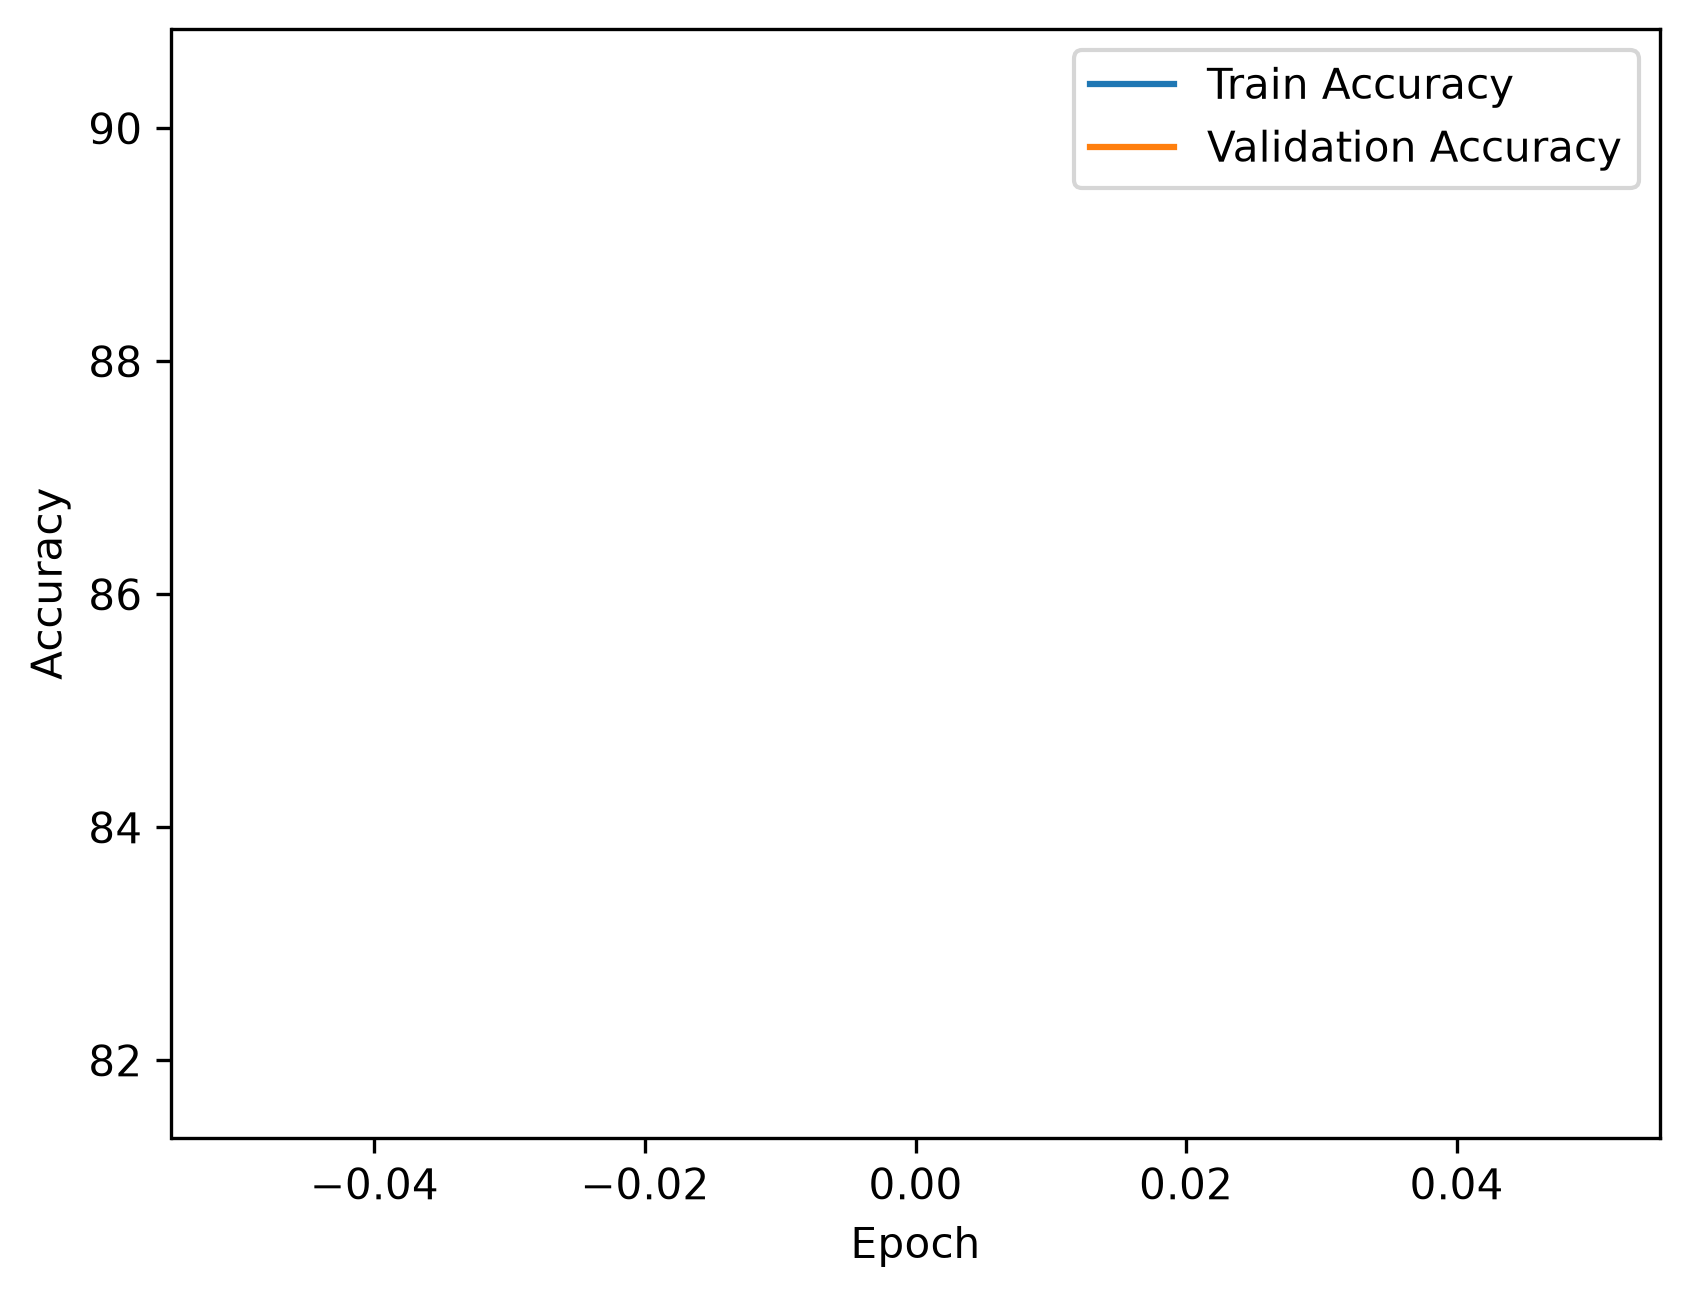
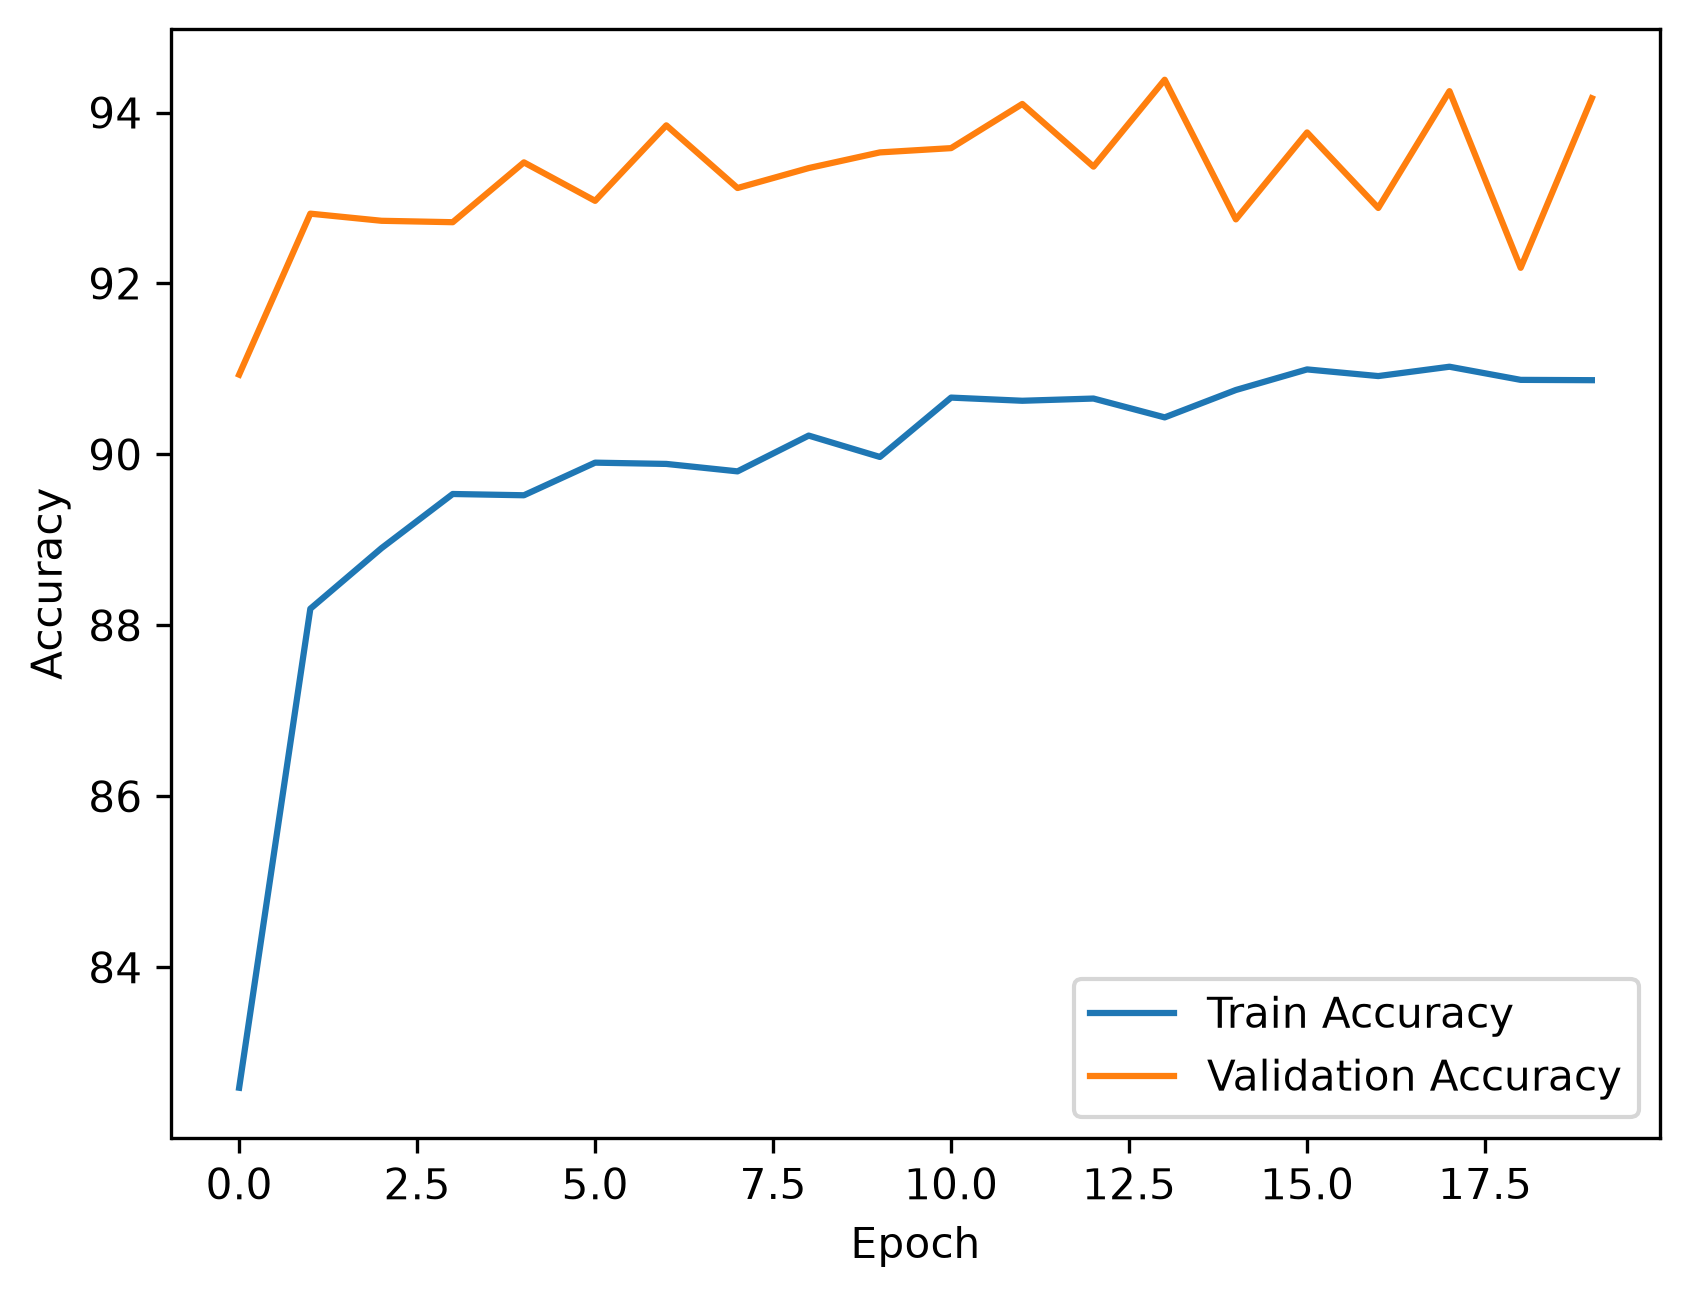
plot gen

diff --git a/deep_models/mnist_project/config.py b/deep_models/mnist_project/config.py
@@ -22,7 +22,7 @@ class ModelConfig:
 
 @dataclass
 class TrainConfig:
-    epoch_count = 10
+    epoch_count = 20
     epoch_checkpoint = 1
 
 @dataclass
